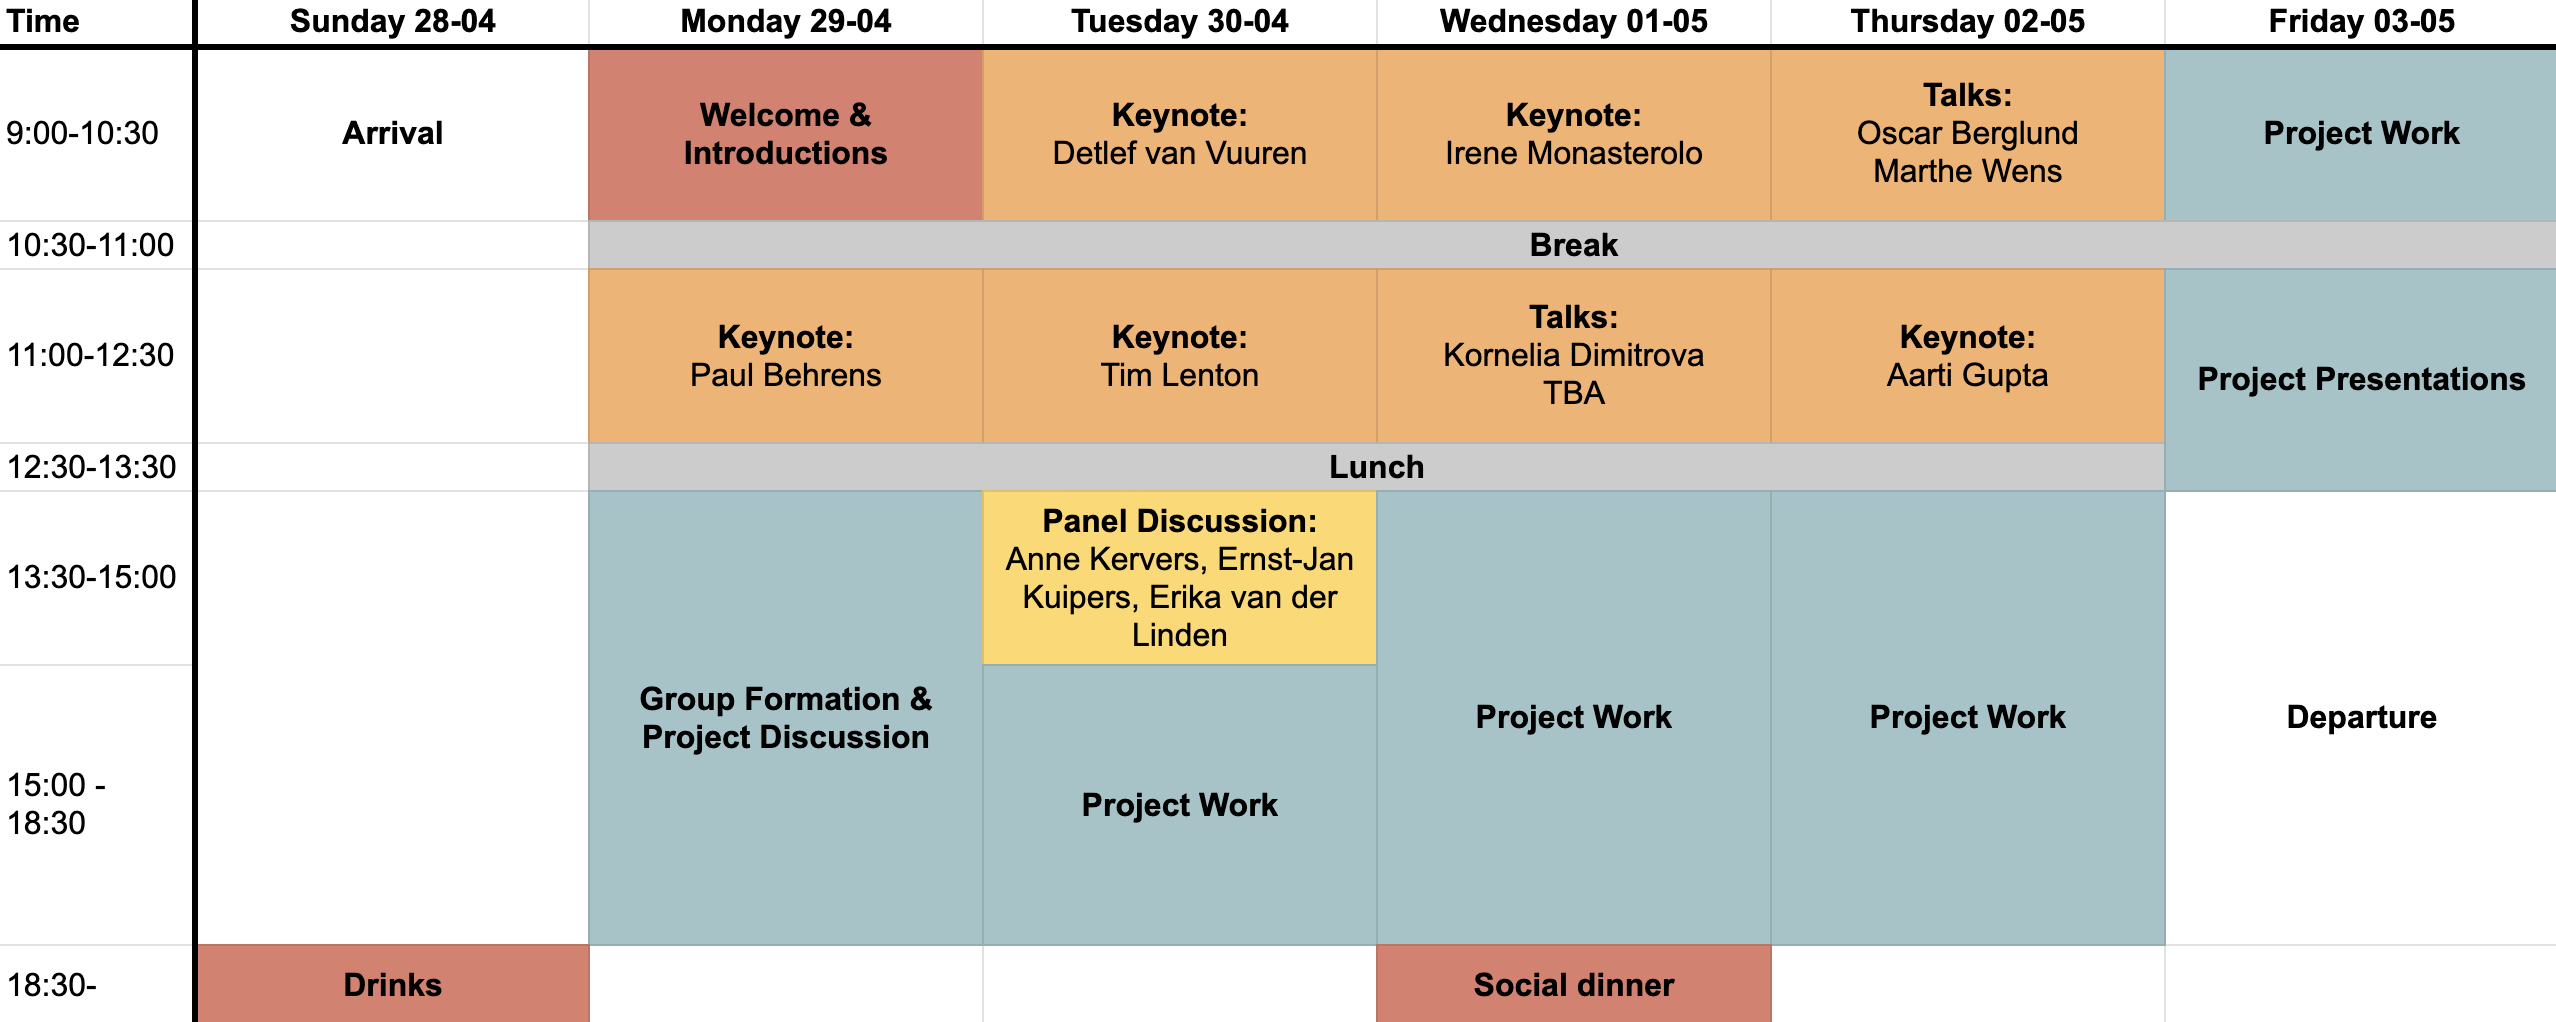
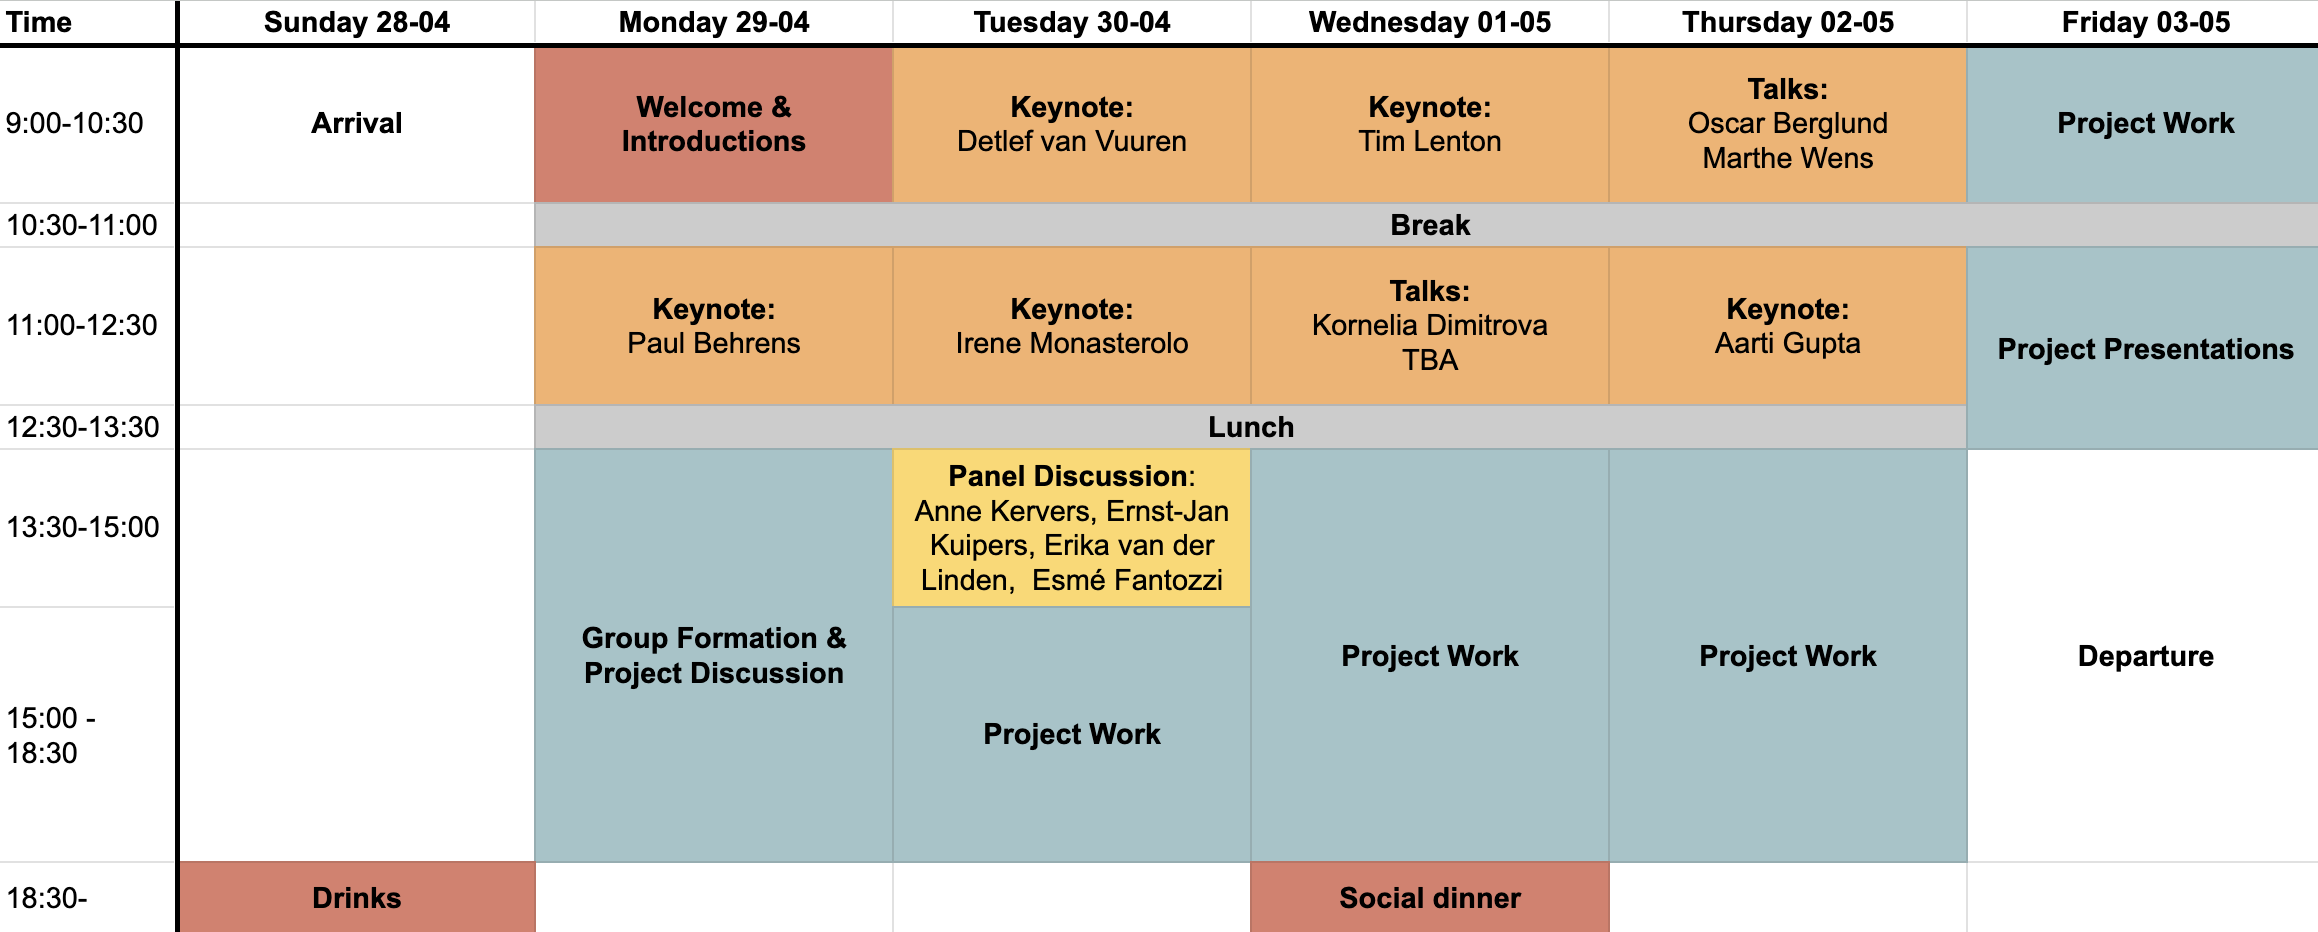
add esme and updated program

diff --git a/speakers.md b/speakers.md
@@ -60,6 +60,12 @@ title:  Speakers
   </p>
 </div>
 
+
+<div style="overflow: hidden; margin-top: 40px;">
+  <img style="float: left; margin-right: 20px;" src="/assets/image23/speakers/esme.jpeg" width="25%"/>
+  <p><a href='https://www.linkedin.com/in/esme-fantozzi/'>Esmé Fantozzi</a> is the founder of AklysTransform, a consultancy with the mission of enabling and accelerating the transition to sustainable energy, especially in hard-to-decarbonize sectors. Her passion for sustainability stems from a global career largely centred on supply chain, operational, and asset management excellence. She has first-hand experience of how making sustainable choices and applying circular principles in the design phase of projects and businesses influence their sustainability performance for the decades of operational life ahead. Esmé worked internationally, and for almost 20 years, in the oil and gas sector. She held central corporate roles, and frontline ones in operated ventures and as a secondee in non-operated ventures, working and living in Europe, the United States, the Middle East, and Asia. She holds a Laurea in Physics from Padua University and a Master of Engineering from the Massachusetts Institute of Technology.</p>
+</div>
+
 <div style="overflow: hidden; margin-top: 40px;">
   <img style="float: left; margin-right: 20px;" src="/assets/image23/speakers/kornelia.jpeg" width="25%"/>
   <p><a href='https://www.linkedin.com/in/kornelia-dimitrova/'>Kornelia Dimitrova</a> is an architect, researcher, and writer based in Rotterdam and Eindhoven. Over the years, she has taught, written, spoken, designed, advised, and advocated for the value of caring and ecological imaginations in enabling spatial and social transformations. In 2021, she authored the Playbook for Healing environments, a spatial strategy for one of the largest and oldest mental health estates in The Netherlands. In 2018, she co-founded <a href='https://www.foundationweare.org/'>Foundation We Are</a> and currently leads the <a href='https://collaborationsforfuture.com/'>Collaborations for Future</a> program, focused on making the collaborations between designers and climate scientists more effective and sustainable.</p>
